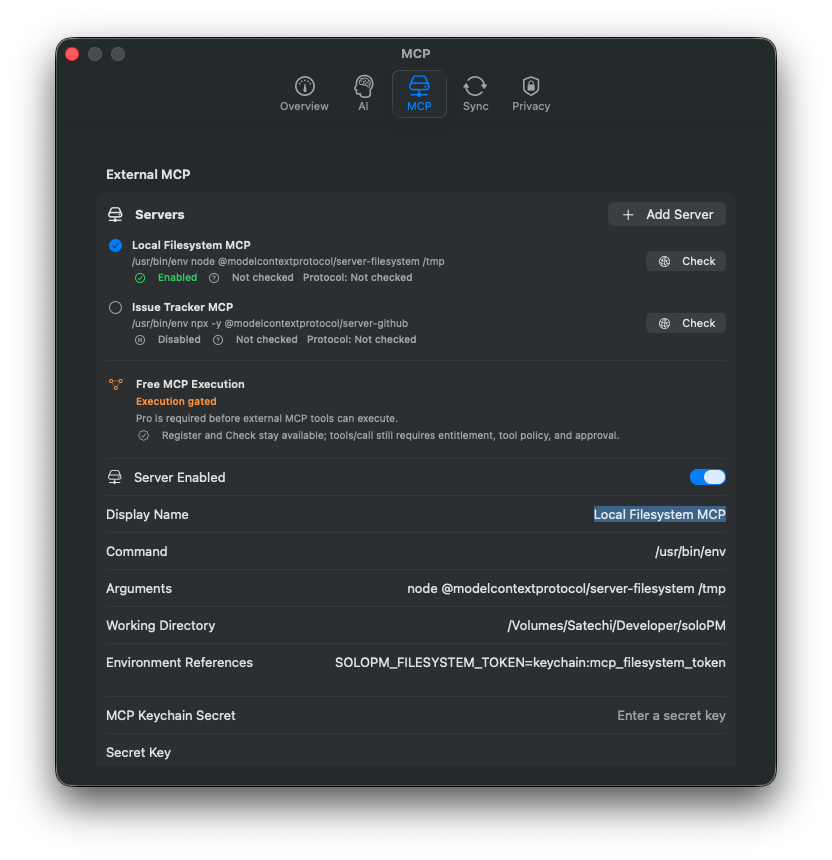
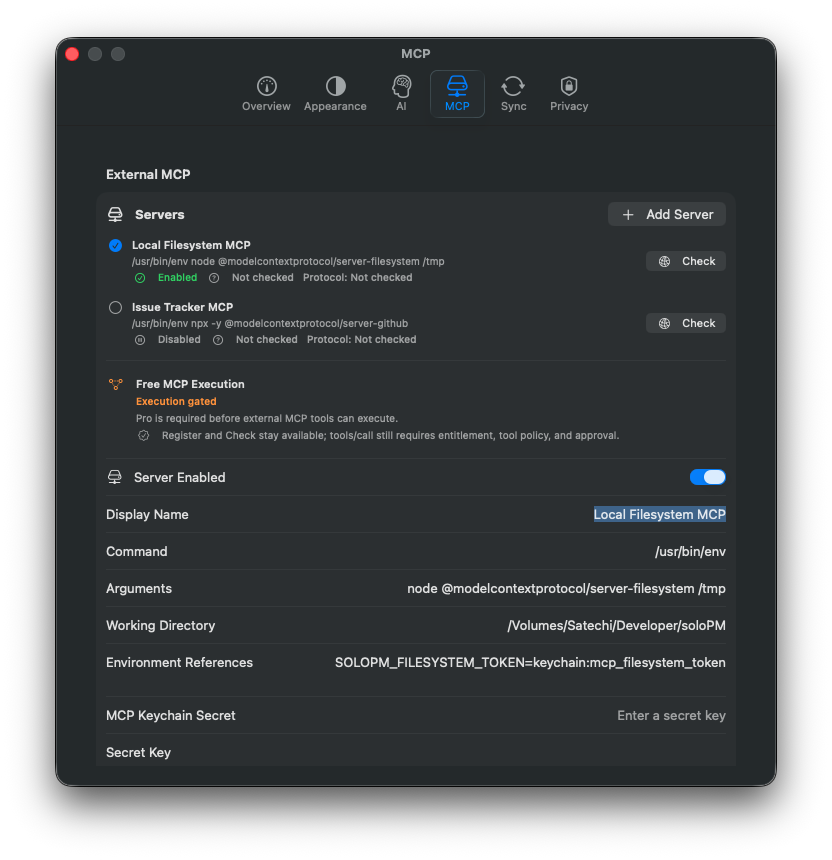
fix: move theme controls to settings appearance

Changed region(s): [[0.3125, 0.0907, 0.7188, 0.1512]]

diff --git a/Tests/SoloPMCoreTests/AppExperienceSourceTests.swift b/Tests/SoloPMCoreTests/AppExperienceSourceTests.swift
@@ -104,8 +104,11 @@ final class AppExperienceSourceTests: XCTestCase {
         XCTAssertEqual(appearanceSectionSource.components(separatedBy: "Section(\"Appearance\")").count - 1, 1)
         XCTAssertEqual(appearanceSectionSource.components(separatedBy: "Picker(\"Theme\"").count - 1, 1)
         let settingsRange = try XCTUnwrap(appSource.range(of: "Settings {"))
+        let appearanceTabRange = try XCTUnwrap(appSource.range(of: "private var appearanceSettingsTab: some View"))
         let appearanceRange = try XCTUnwrap(appSource.range(of: "SettingsAppearanceSection(appearancePreference: $appearancePreference)"))
         XCTAssertLessThan(settingsRange.lowerBound, appearanceRange.lowerBound)
+        XCTAssertLessThan(appearanceTabRange.lowerBound, appearanceRange.lowerBound)
+        XCTAssertTrue(appSource.contains("Label(\"Appearance\", systemImage: \"circle.lefthalf.filled\")"))
         XCTAssertTrue(appSource.contains("appearancePreference: $appearancePreference"))
         XCTAssertTrue(appSource.contains("@Binding private var appearancePreference: SoloPMAppearancePreference"))
         XCTAssertEqual(appSource.components(separatedBy: "@AppStorage(SoloPMAppearancePreference.storageKey)").count - 1, 1)
@@ -1250,9 +1253,11 @@ final class AppExperienceSourceTests: XCTestCase {
         let appSource = try readPackageFile("Sources/SoloPMApp/SoloPMApp.swift")
 
         let overviewRange = try XCTUnwrap(appSource.range(of: "SettingsStatusOverview("))
-        let appearanceRange = try XCTUnwrap(appSource.range(of: "SettingsAppearanceSection(appearancePreference: $appearancePreference)"))
+        let overviewTabRange = try XCTUnwrap(appSource.range(of: "private var overviewSettingsTab: some View"))
+        let appearanceTabRange = try XCTUnwrap(appSource.range(of: "private var appearanceSettingsTab: some View"))
 
-        XCTAssertLessThan(overviewRange.lowerBound, appearanceRange.lowerBound)
+        XCTAssertLessThan(overviewTabRange.lowerBound, overviewRange.lowerBound)
+        XCTAssertLessThan(overviewRange.lowerBound, appearanceTabRange.lowerBound)
         XCTAssertTrue(appSource.contains("Section(\"Status Overview\")"))
         XCTAssertTrue(appSource.contains("title: \"AI Provider\""))
         XCTAssertTrue(appSource.contains("title: \"MCP\""))
@@ -1272,30 +1277,35 @@ final class AppExperienceSourceTests: XCTestCase {
 
         XCTAssertTrue(appSource.contains("TabView {"))
         XCTAssertTrue(appSource.contains("private var overviewSettingsTab: some View"))
+        XCTAssertTrue(appSource.contains("private var appearanceSettingsTab: some View"))
         XCTAssertTrue(appSource.contains("private var aiSettingsTab: some View"))
         XCTAssertTrue(appSource.contains("private var mcpSettingsTab: some View"))
         XCTAssertTrue(appSource.contains("private var syncSettingsTab: some View"))
         XCTAssertTrue(appSource.contains("private var privacySettingsTab: some View"))
         XCTAssertTrue(appSource.contains("Label(\"Overview\", systemImage: \"gauge.with.dots.needle.bottom.50percent\")"))
+        XCTAssertTrue(appSource.contains("Label(\"Appearance\", systemImage: \"circle.lefthalf.filled\")"))
         XCTAssertTrue(appSource.contains("Label(\"AI\", systemImage: \"brain.head.profile\")"))
         XCTAssertTrue(appSource.contains("Label(\"MCP\", systemImage: \"externaldrive.connected.to.line.below\")"))
         XCTAssertTrue(appSource.contains("Label(\"Sync\", systemImage: \"arrow.triangle.2.circlepath\")"))
         XCTAssertTrue(appSource.contains("Label(\"Privacy\", systemImage: \"lock.shield\")"))
 
         let overviewStart = try XCTUnwrap(appSource.range(of: "private var overviewSettingsTab"))
+        let appearanceStart = try XCTUnwrap(appSource.range(of: "private var appearanceSettingsTab"))
         let aiStart = try XCTUnwrap(appSource.range(of: "private var aiSettingsTab"))
         let syncStart = try XCTUnwrap(appSource.range(of: "private var syncSettingsTab"))
         let privacyStart = try XCTUnwrap(appSource.range(of: "private var privacySettingsTab"))
         let mcpStart = try XCTUnwrap(appSource.range(of: "private var mcpSettingsTab"))
 
-        let overviewSource = String(appSource[overviewStart.lowerBound..<aiStart.lowerBound])
+        let overviewSource = String(appSource[overviewStart.lowerBound..<appearanceStart.lowerBound])
+        let appearanceSource = String(appSource[appearanceStart.lowerBound..<aiStart.lowerBound])
         let aiSource = String(appSource[aiStart.lowerBound..<syncStart.lowerBound])
         let syncSource = String(appSource[syncStart.lowerBound..<privacyStart.lowerBound])
         let privacySource = String(appSource[privacyStart.lowerBound..<mcpStart.lowerBound])
         let mcpSource = String(appSource[mcpStart.lowerBound..<appSource.endIndex])
 
         XCTAssertTrue(overviewSource.contains("Section(\"Status Overview\")"))
-        XCTAssertTrue(overviewSource.contains("SettingsAppearanceSection(appearancePreference: $appearancePreference)"))
+        XCTAssertFalse(overviewSource.contains("SettingsAppearanceSection(appearancePreference: $appearancePreference)"))
+        XCTAssertTrue(appearanceSource.contains("SettingsAppearanceSection(appearancePreference: $appearancePreference)"))
         XCTAssertTrue(appearanceSectionSource.contains("Section(\"Appearance\")"))
         XCTAssertTrue(aiSource.contains("Section(\"AI\")"))
         XCTAssertTrue(aiSource.contains("Section(\"Voice\")"))
@@ -1305,8 +1315,8 @@ final class AppExperienceSourceTests: XCTestCase {
         XCTAssertTrue(syncSource.contains("Section(\"Sync\")"))
         XCTAssertTrue(privacySource.contains("Section(\"Privacy\")"))
         XCTAssertTrue(privacySource.contains("Section(\"Watcher\")"))
-        XCTAssertTrue(audit.contains("Settings詳細FormはOverview / AI / MCP / Sync / Privacyのtabへ分割済み"))
-        XCTAssertTrue(phase.contains("[x] Settings詳細FormをOverview / AI / MCP / Sync / Privacyのtabへ分割し"))
+        XCTAssertTrue(audit.contains("Settings詳細FormはOverview / Appearance / AI / MCP / Sync / Privacyのtabへ分割済み"))
+        XCTAssertTrue(phase.contains("[x] Settings詳細FormをOverview / Appearance / AI / MCP / Sync / Privacyのtabへ分割し"))
     }
 
     func testAISettingsTabShowsOnlySelectedProviderFields() throws {
@@ -1603,13 +1613,13 @@ final class AppExperienceSourceTests: XCTestCase {
         XCTAssertTrue(script.contains("project-board-light.png"))
         XCTAssertTrue(script.contains("project-board-dark.png"))
         XCTAssertTrue(script.contains("project-board-system.png"))
-        XCTAssertTrue(script.contains("settings-overview-light.png"))
-        XCTAssertTrue(script.contains("settings-overview-dark.png"))
+        XCTAssertTrue(script.contains("settings-appearance-light.png"))
+        XCTAssertTrue(script.contains("settings-appearance-dark.png"))
         XCTAssertTrue(script.contains("settings-mcp-light.png"))
         XCTAssertTrue(script.contains("settings-mcp-dark.png"))
-        XCTAssertTrue(script.contains("open_settings_overview_tab"))
-        XCTAssertTrue(script.contains("click button \"Overview\" of toolbar 1"))
-        XCTAssertTrue(script.contains("capture_settings_overview_appearance"))
+        XCTAssertTrue(script.contains("open_settings_appearance_tab"))
+        XCTAssertTrue(script.contains("click button \"Appearance\" of toolbar 1"))
+        XCTAssertTrue(script.contains("capture_settings_appearance"))
         XCTAssertTrue(script.contains("open_mcp_settings_tab"))
         XCTAssertTrue(script.contains("click button \"MCP\" of toolbar 1"))
         XCTAssertTrue(script.contains("capture_mcp_settings_appearance"))
@@ -1632,19 +1642,19 @@ final class AppExperienceSourceTests: XCTestCase {
         XCTAssertTrue(evidence.contains("project-board-light.png"))
         XCTAssertTrue(evidence.contains("project-board-dark.png"))
         XCTAssertTrue(evidence.contains("project-board-system.png"))
-        XCTAssertTrue(evidence.contains("settings-overview-light.png"))
-        XCTAssertTrue(evidence.contains("settings-overview-dark.png"))
+        XCTAssertTrue(evidence.contains("settings-appearance-light.png"))
+        XCTAssertTrue(evidence.contains("settings-appearance-dark.png"))
         XCTAssertTrue(evidence.contains("settings-mcp-light.png"))
         XCTAssertTrue(evidence.contains("settings-mcp-dark.png"))
-        XCTAssertTrue(evidence.contains("Manual review: passed for Project Board sidebar/cards/inspector, Settings Overview Theme picker, Settings MCP server rows, and Light/Dark/System contrast"))
+        XCTAssertTrue(evidence.contains("Manual review: passed for Project Board sidebar/cards/inspector, Settings Appearance Theme picker, Settings MCP server rows, and Light/Dark/System contrast"))
         XCTAssertTrue(audit.contains("Task card screenshot証跡は生成・目視確認済み"))
         XCTAssertTrue(audit.contains("MCP server別の接続状態証跡は生成・目視確認済み"))
-        XCTAssertTrue(audit.contains("settings-overview-light.png"))
-        XCTAssertTrue(audit.contains("settings-overview-dark.png"))
+        XCTAssertTrue(audit.contains("settings-appearance-light.png"))
+        XCTAssertTrue(audit.contains("settings-appearance-dark.png"))
         XCTAssertTrue(audit.contains("settings-mcp-light.png"))
         XCTAssertTrue(audit.contains("settings-mcp-dark.png"))
         XCTAssertTrue(phase.contains("[x] `script/capture_ui_evidence.sh` は一時HOME、seed済みProject board、Light/Dark/System切替、window captureを使う。"))
-        XCTAssertTrue(phase.contains("[x] `release_readiness_report.sh` は `ui-screenshots.md` だけでなく Project Board Light/Dark/System、Settings Overview Light/Dark、MCP Settings Light/Dark PNG の存在、サイズ、寸法を検証し、欠落や小さすぎる画像をblockerにする。"))
+        XCTAssertTrue(phase.contains("[x] `release_readiness_report.sh` は `ui-screenshots.md` だけでなく Project Board Light/Dark/System、Settings Appearance Light/Dark、MCP Settings Light/Dark PNG の存在、サイズ、寸法を検証し、欠落や小さすぎる画像をblockerにする。"))
         XCTAssertTrue(phase.contains("[x] Light/Dark/System切替後にカード、サイドバー、インスペクタのコントラストが破綻しないことをスクリーンショットで確認する。"))
         XCTAssertTrue(phase.contains("[x] `ui-samples/` を参考にした画面密度・インスペクタ・Settingsの改善がスクリーンショットで検証されている。"))
     }

diff --git a/Tests/SoloPMCoreTests/ReleasePipelineTests.swift b/Tests/SoloPMCoreTests/ReleasePipelineTests.swift
@@ -3959,7 +3959,7 @@ final class ReleasePipelineTests: XCTestCase {
         XCTAssertTrue(script.contains("section \"UI screenshot evidence\""))
         XCTAssertTrue(script.contains("docs/release/evidence/ui-screenshots.md"))
         XCTAssertTrue(script.contains("project-board-light.png"))
-        XCTAssertTrue(script.contains("settings-overview-light.png"))
+        XCTAssertTrue(script.contains("settings-appearance-light.png"))
         XCTAssertTrue(script.contains("settings-mcp-light.png"))
         XCTAssertTrue(script.contains("sips -g pixelWidth -g pixelHeight"))
         XCTAssertTrue(script.contains("assert_screenshot_has_visible_content"))
@@ -4430,8 +4430,8 @@ final class ReleasePipelineTests: XCTestCase {
         - Light: `docs/release/evidence/ui-screenshots/project-board-light.png`
         - Dark: `docs/release/evidence/ui-screenshots/project-board-dark.png`
         - System: `docs/release/evidence/ui-screenshots/project-board-system.png`
-        - Settings Overview Light: `docs/release/evidence/ui-screenshots/settings-overview-light.png`
-        - Settings Overview Dark: `docs/release/evidence/ui-screenshots/settings-overview-dark.png`
+        - Settings Appearance Light: `docs/release/evidence/ui-screenshots/settings-appearance-light.png`
+        - Settings Appearance Dark: `docs/release/evidence/ui-screenshots/settings-appearance-dark.png`
         - MCP Settings Light: `docs/release/evidence/ui-screenshots/settings-mcp-light.png`
         - MCP Settings Dark: `docs/release/evidence/ui-screenshots/settings-mcp-dark.png`
         """.write(to: evidenceDirectory.appendingPathComponent("ui-screenshots.md"), atomically: true, encoding: .utf8)
@@ -4505,8 +4505,8 @@ final class ReleasePipelineTests: XCTestCase {
         - Light: `docs/release/evidence/ui-screenshots/project-board-light.png`
         - Dark: `docs/release/evidence/ui-screenshots/project-board-dark.png`
         - System: `docs/release/evidence/ui-screenshots/project-board-system.png`
-        - Settings Overview Light: `docs/release/evidence/ui-screenshots/settings-overview-light.png`
-        - Settings Overview Dark: `docs/release/evidence/ui-screenshots/settings-overview-dark.png`
+        - Settings Appearance Light: `docs/release/evidence/ui-screenshots/settings-appearance-light.png`
+        - Settings Appearance Dark: `docs/release/evidence/ui-screenshots/settings-appearance-dark.png`
         - MCP Settings Light: `docs/release/evidence/ui-screenshots/settings-mcp-light.png`
         - MCP Settings Dark: `docs/release/evidence/ui-screenshots/settings-mcp-dark.png`
         """.write(to: evidenceDirectory.appendingPathComponent("ui-screenshots.md"), atomically: true, encoding: .utf8)
@@ -4530,7 +4530,7 @@ final class ReleasePipelineTests: XCTestCase {
         try "- [x] fixture readme has no template blockers\n"
             .write(to: tasksDirectory.appendingPathComponent("README.md"), atomically: true, encoding: .utf8)
 
-        for screenshotFilename in ["project-board-light.png", "project-board-dark.png", "project-board-system.png", "settings-overview-light.png", "settings-overview-dark.png", "settings-mcp-light.png", "settings-mcp-dark.png"] {
+        for screenshotFilename in ["project-board-light.png", "project-board-dark.png", "project-board-system.png", "settings-appearance-light.png", "settings-appearance-dark.png", "settings-mcp-light.png", "settings-mcp-dark.png"] {
             try writeSolidPNG(
                 to: screenshotDirectory.appendingPathComponent(screenshotFilename),
                 width: 800,
@@ -4551,8 +4551,8 @@ final class ReleasePipelineTests: XCTestCase {
         XCTAssertTrue(result.output.contains("UI screenshot appears blank or too low contrast: docs/release/evidence/ui-screenshots/project-board-light.png"))
         XCTAssertTrue(result.output.contains("UI screenshot appears blank or too low contrast: docs/release/evidence/ui-screenshots/project-board-dark.png"))
         XCTAssertTrue(result.output.contains("UI screenshot appears blank or too low contrast: docs/release/evidence/ui-screenshots/project-board-system.png"))
-        XCTAssertTrue(result.output.contains("UI screenshot appears blank or too low contrast: docs/release/evidence/ui-screenshots/settings-overview-light.png"))
-        XCTAssertTrue(result.output.contains("UI screenshot appears blank or too low contrast: docs/release/evidence/ui-screenshots/settings-overview-dark.png"))
+        XCTAssertTrue(result.output.contains("UI screenshot appears blank or too low contrast: docs/release/evidence/ui-screenshots/settings-appearance-light.png"))
+        XCTAssertTrue(result.output.contains("UI screenshot appears blank or too low contrast: docs/release/evidence/ui-screenshots/settings-appearance-dark.png"))
         XCTAssertTrue(result.output.contains("UI screenshot appears blank or too low contrast: docs/release/evidence/ui-screenshots/settings-mcp-light.png"))
         XCTAssertTrue(result.output.contains("UI screenshot appears blank or too low contrast: docs/release/evidence/ui-screenshots/settings-mcp-dark.png"))
         XCTAssertFalse(result.output.contains("READY: runtime, task checklist, automated proof gates, and release environment gates passed."))

diff --git a/Sources/SoloPMApp/SoloPMApp.swift b/Sources/SoloPMApp/SoloPMApp.swift
@@ -853,6 +853,9 @@ private struct SettingsView: View {
             overviewSettingsTab
                 .tabItem { Label("Overview", systemImage: "gauge.with.dots.needle.bottom.50percent") }
 
+            appearanceSettingsTab
+                .tabItem { Label("Appearance", systemImage: "circle.lefthalf.filled") }
+
             aiSettingsTab
                 .tabItem { Label("AI", systemImage: "brain.head.profile") }
 
@@ -902,8 +905,13 @@ private struct SettingsView: View {
                 )
             }
 
-            SettingsAppearanceSection(appearancePreference: $appearancePreference)
+        }
+        .formStyle(.grouped)
+    }
 
+    private var appearanceSettingsTab: some View {
+        Form {
+            SettingsAppearanceSection(appearancePreference: $appearancePreference)
         }
         .formStyle(.grouped)
     }

diff --git a/docs/ux/click-path-audit.md b/docs/ux/click-path-audit.md
@@ -23,7 +23,7 @@
 | --- | --- | --- |
 | Project Board | 起動時のメインwindow、menu barの `Project Board` | SidebarにInbox、Today、Projectsが固定表示され、Project overview/board/list、task composer、inspectorを扱う主要画面。 |
 | Voice Command | board toolbarの `Voice Command`、menu barの `Voice Command` | CaptureとAI action reviewの導線がある。現状ではInboxの代替に近い。 |
-| Settings | macOS app menuの `Settings...`、`Command+,`、macOS Settings scene | 先頭のStatus OverviewでAI Provider、MCP、Sync、Privacyを確認できる。ThemeはSettings OverviewのAppearanceに集約する。 |
+| Settings | macOS app menuの `Settings...`、`Command+,`、macOS Settings scene | 先頭のStatus OverviewでAI Provider、MCP、Sync、Privacyを確認できる。ThemeはSettings内のAppearance tabに集約する。 |
 | Inbox | sidebarの `Inbox` | 未処理taskを実データから表示し、Task化、Project化、今日へ予定、後で確認を選択中itemへ1クリックで適用できる。 |
 | Today | sidebarの `Today` | due/overdueの未完了taskを実データから表示し、overdue/today件数、local focus suggestion、30分単位のtime block、task inspectorへつながる。 |
 
@@ -56,7 +56,7 @@
 | Project完了 | Project inspector -> `Complete Project` | 2 | Pass | headerから削除し、選択中Projectの操作をinspectorに集約した。 |
 | Project archive/delete | Project inspector -> action -> confirm | 3 | Pass | 破壊的操作なので確認があるのは妥当。 |
 | Settingsを開く | macOS app menu `Settings...` または `Command+,` | 1 | Pass | Project BoardとMenuBarPanelの右上には置かず、作業画面内のTheme/Settings重複導線をなくす。 |
-| Theme変更 | Settings -> Overview -> `Theme` segment | 2 | Pass | ThemeはSettings Overviewに集約済み。Project Boardのサイドバー下/右上にはTheme controlを置かない。 |
+| Theme変更 | Settings -> Appearance -> `Theme` segment | 2 | Pass | ThemeはSettingsのAppearance tabに集約済み。Project Boardのサイドバー下/右上にはTheme controlを置かない。 |
 | AI Provider状態確認 | Settings -> Status OverviewまたはAI tabのProvider Readiness summaryを見る | 1 | Pass | 現在のproviderと認証/承認状態は先頭で分かり、AI tabでは全providerの設定状態をprovider切替なしで確認できる。 |
 | AI Provider変更 | Settings -> provider picker -> provider | 2 | Pass | Provider選択時に自動保存されるため、保存ボタンを探す必要がない。AI Provider readiness rowで選択中providerの状態、smoke readiness、次の操作がすぐ分かる。 |
 | Provider API key保存 | Settings -> API key field -> save key | 3 | Pass | 初期設定として3操作は残るが、readiness rowが「Keychainへ保存」「再入力」「manual smoke」の次操作を出すため迷子になりにくい。 |
@@ -79,9 +79,9 @@
 | Task card metadata stripはsource-levelで改善済み | Task card metadata strip はstatus / priority / dueを固定寸法chipに分離し、狭いKanban列ではadaptive gridへ逃がす。drag affordanceは右上の固定サイズiconとして残り、Open task領域とstatus move controlsから分離済み。 | Done | Light/Dark/Systemスクリーンショットでtitle、状態、優先度、期限、drag affordanceが重ならないことを確認済み。 |
 | Task card screenshot証跡は生成・目視確認済み | Task cardのtitle/status/priority/due/drag affordanceは実装済み。`docs/release/evidence/ui-screenshots/` のLight/Dark/System PNGで一時HOME、seed済みProject board、window captureの証跡を残した。 | Done | 以後のUI変更では `script/capture_ui_evidence.sh` を再実行し、生成PNGを目視確認する。 |
 | Inspector summaryはsource-levelで改善済み | Task / Project inspector はcompact summaryを先頭に追加済み。Taskはstatus/priority/due/project、Projectはstatus/open tasks/total tasks/artifactsを詳細Form前に表示し、右ペインを開いた直後の文脈把握を早くする。 | Done | Light/Dark/Systemスクリーンショットでsummary、編集field、danger actionが狭いinspector幅でも重ならないことを確認済み。 |
-| Settings詳細Formはtab分割済み | Settings詳細FormはOverview / AI / MCP / Sync / Privacyのtabへ分割済み。Status OverviewとThemeはOverview、provider詳細はAI、MCP登録/権限/auditはMCP、同期はSync、通知/起動/WatcherはPrivacyに分けた。 | Done | `settings-overview-light.png` / `settings-overview-dark.png` でTheme pickerがSettings Overviewにあり、Project Boardには重複Theme controlがないことを確認済み。 |
+| Settings詳細Formはtab分割済み | Settings詳細FormはOverview / Appearance / AI / MCP / Sync / Privacyのtabへ分割済み。Status OverviewはOverview、ThemeはAppearance、provider詳細はAI、MCP登録/権限/auditはMCP、同期はSync、通知/起動/WatcherはPrivacyに分けた。 | Done | `settings-appearance-light.png` / `settings-appearance-dark.png` とsource testでTheme pickerがSettings Appearanceに1箇所だけ存在し、Project Boardには重複Theme controlがないことを確認済み。 |
 | Provider詳細設定は選択中providerだけを表示するcompact panelへ分離済み | Provider pickerの下に選択中providerに必要なfieldだけを出すため、他providerのAPI key、model、local executableは同時表示されない。AI Provider readiness summaryでは全providerのConfigured / Not configured / Local / Setup required / Approval requiredを短く見られる。 | Done | 未選択providerの状態確認にprovider切替は不要。 |
-| MCP server別の接続状態証跡は生成・目視確認済み | 複数server rowのinline statusとrow単位Checkは実装済み。`settings-mcp-light.png` / `settings-mcp-dark.png` で複数server、Free MCP execution gate、row単位Check導線を確認済み。 | Done | 以後のSettings変更では `script/capture_ui_evidence.sh` を再実行し、Settings Overview / MCP PNGを目視確認する。 |
+| MCP server別の接続状態証跡は生成・目視確認済み | 複数server rowのinline statusとrow単位Checkは実装済み。`settings-mcp-light.png` / `settings-mcp-dark.png` で複数server、Free MCP execution gate、row単位Check導線を確認済み。 | Done | 以後のSettings変更では `script/capture_ui_evidence.sh` を再実行し、Settings Appearance / MCP PNGを目視確認する。 |
 | accessibility検証が未完了 | Task card、column add、status move、destructive confirmationのlabel/helpはsource testで固定し、Task cardのOpen Detailsとstatus move controlsも別フォーカス対象に分離した。Sidebar -> board detail -> task card -> Inline Task Composer -> inspectorのsource-level VoiceOver focus anchors are fixed。Inline Task Composerはrelease VoiceOver証跡の必須focus pathにも含めた。Task / Project inspectorのfield、提案適用、保存、complete、restore、archive、deleteはaccessibility identifier / hintを持ち、キーボードだけで実行できる。Inbox / Todayのrow、Quick Add、分類action、Today summary、time blockにsource-level accessibility identifiers / hints / keyboard anchorsを追加済み。Light/Dark/System screenshot evidenceは生成・目視確認済み。実機VoiceOver focus order確認は残る。 | P1 | VoiceOverでProject board -> card -> Inline Task Composer -> inspectorの順序を確認し、崩れを修正する。 |
 
 ## 改善紐づけ
@@ -102,7 +102,7 @@ PR未作成のため、現時点ではcurrent branchの改善commitとsource tes
 | Review Execute artifact作成 | Action Planのfilesystem artifact作成が `projectId` / `taskId` を持つ場合、作成ファイルと同時にlocal SQLite artifact linkを作り、Project OverviewのArtifactsへ戻す。 | `Sources/SoloPMCore/Tools/SystemTools.swift`, `Sources/SoloPMCore/Tools/SystemToolClients.swift`, `Sources/SoloPMApp/SoloPMApp.swift` | `SystemToolTests.testFileSystemToolPersistsCreatedArtifactLinkWhenProjectIDIsProvided`, `AppExperienceSourceTests.testRuntimeAppCompositionDoesNotUseDemoOrInMemorySuccessPath` |
 | Inbox capture / triage | MenuBar Quick AddまたはInbox headerから実タスクを作り、item選択後にMake Task、Make Project、Schedule Today、Review Laterを1クリックで実mutationへ送る。 | `Sources/SoloPMApp/SoloPMApp.swift`, `Sources/SoloPMApp/Views/ProjectWorkflowViews.swift`, `Sources/SoloPMCore/App/ProjectBoard.swift` | `AppExperienceSourceTests.testMenuBarPanelProvidesFastInboxCaptureWithRuntimeBoardViewModel`, `ProjectBoardStoreTests.testProjectBoardViewModelQuickCapturesInboxTaskAndNotifies`, `ProjectBoardStoreTests.testProjectBoardViewModelQuickCapturePersistsToSQLiteInbox`, `ProjectBoardStoreTests.testProjectBoardViewModelInboxClassificationShowsFeedbackAdvancesSelectionAndUndo`, `ProjectBoardStoreTests.testSQLiteBoardStorePersistsInboxClassificationUndo` |
 | Today planning | sidebarから1クリックでdue/overdue、focus suggestion、time blockを確認する。 | `Sources/SoloPMApp/Views/ProjectWorkflowViews.swift`, `Sources/SoloPMCore/App/ProjectBoard.swift` | `AppExperienceSourceTests.testTodayWorkflowShowsRecommendationDueCountsAndTimeBlocks`, `ProjectBoardStoreTests.testProjectBoardViewModelBuildsDeterministicTodayPlanWithTimeBlocks` |
-| Settings overview / Theme | macOS app menuまたは`Command+,`からSettingsを開き、Status OverviewとTheme segmentをSettings内へ集約する。Project Boardのサイドバー下/右上とMenuBarPanel右上にはTheme/Settings controlを置かない。 | `Sources/SoloPMApp/SoloPMApp.swift` | `AppExperienceSourceTests.testSettingsSurfaceStartsWithStatusOverviewForCoreOperationalAreas`, `AppExperienceSourceTests.testAppearanceSelectionIsConfiguredOnlyFromSettings`, `AppExperienceSourceTests.testProjectBoardSidebarAndToolbarDoNotHostThemeControls`, `AppExperienceSourceTests.testMenuBarPanelDoesNotHostSettingsOrThemeControls` |
+| Settings overview / Theme | macOS app menuまたは`Command+,`からSettingsを開き、Status OverviewはOverview tab、Theme segmentはAppearance tabへ集約する。Project Boardのサイドバー下/右上とMenuBarPanel右上にはTheme/Settings controlを置かない。 | `Sources/SoloPMApp/SoloPMApp.swift` | `AppExperienceSourceTests.testSettingsSurfaceStartsWithStatusOverviewForCoreOperationalAreas`, `AppExperienceSourceTests.testAppearanceSelectionIsConfiguredOnlyFromSettings`, `AppExperienceSourceTests.testProjectBoardSidebarAndToolbarDoNotHostThemeControls`, `AppExperienceSourceTests.testMenuBarPanelDoesNotHostSettingsOrThemeControls` |
 | AI Provider readiness row | Provider picker直下に選択中providerの状態、smoke readiness、次の操作を表示し、API keyやlocal executionの不足を詳細field前に分かるようにする。 | `Sources/SoloPMApp/SoloPMApp.swift` | `AppExperienceSourceTests.testAISettingsTabShowsSelectedProviderReadinessBeforeProviderFields` |
 | AI Provider readiness summary | AI tab内に全providerの状態を短いsummaryとして表示し、provider切替なしでKeychain/API/local executionの不足を把握できるようにする。 | `Sources/SoloPMApp/SoloPMApp.swift`, `Sources/SoloPMCore/App/AppSettings.swift` | `AppExperienceSourceTests.testAISettingsTabShowsSelectedProviderReadinessBeforeProviderFields`, `AppSettingsTests.testAppSettingsViewModelBuildsProviderReadinessRowsWithoutSecrets` |
 | AI provider設定 | provider pickerの選択を自動保存し、選択中providerのfieldだけを表示する。 | `Sources/SoloPMApp/SoloPMApp.swift`, `Sources/SoloPMCore/App/AppSettings.swift`, `Sources/SoloPMCore/App/LLMProviderCatalog.swift` | `AppExperienceSourceTests.testAISettingsTabShowsOnlySelectedProviderFields`, `AppSettingsTests.testAppSettingsViewModelPersistsProviderSelectionWhenSelected` |

diff --git a/tasks/Phase11-ProviderSyncUXProductization.md b/tasks/Phase11-ProviderSyncUXProductization.md
@@ -138,7 +138,7 @@
 - [x] Freeでは同期toggleをdisabledにし、押した時も外部通信を発火しない。
 - [x] Pro未構成では「Sync backend is not configured」と表示し、成功バッジを出さない。
 - [x] `ui-samples/07.png` の設定密度を参考に、AI Provider / MCP / Sync / Privacy が一画面で状態確認できるよう整理する。
-- [x] Settings詳細FormをOverview / AI / MCP / Sync / Privacyのtabへ分割し、Status確認・Theme変更・provider設定・MCP登録・Sync gate・Privacy設定の到達先を明確にする。
+- [x] Settings詳細FormをOverview / Appearance / AI / MCP / Sync / Privacyのtabへ分割し、Status確認・Theme変更・provider設定・MCP登録・Sync gate・Privacy設定の到達先を明確にする。
 - [x] AI tabのprovider詳細fieldは選択中providerだけを表示し、非選択providerのAPI key、model、local executable欄を同時表示しない。
 - [x] AI tabはprovider picker直下に選択中providerの状態、smoke readiness、次の操作を表示し、詳細fieldを読む前に未設定理由が分かる。
 - [x] Sync tabはtoggle前にPro価値、Freeのlocal-only境界、backend未構成時の次状態を表示し、課金価値がdisabled toggleだけに埋もれない。
@@ -216,7 +216,7 @@
   - [x] `capture_ui_evidence.sh` はcapture前にappを前面化し、黒画面/低情報量PNGをrelease evidenceとして残さず失敗させる。
   - [x] `capture_ui_evidence.sh` はScreen Recording権限やwindow capture失敗時に、選択window情報と再実行手順を出す。
   - [x] `capture_ui_evidence.sh --doctor` はrelease evidenceを書かずにScreen Recordingの可視ピクセル取得を事前診断する。
-- [x] `release_readiness_report.sh` は `ui-screenshots.md` だけでなく Project Board Light/Dark/System、Settings Overview Light/Dark、MCP Settings Light/Dark PNG の存在、サイズ、寸法を検証し、欠落や小さすぎる画像をblockerにする。
+- [x] `release_readiness_report.sh` は `ui-screenshots.md` だけでなく Project Board Light/Dark/System、Settings Appearance Light/Dark、MCP Settings Light/Dark PNG の存在、サイズ、寸法を検証し、欠落や小さすぎる画像をblockerにする。
 - [x] Light/Dark/System切替後にカード、サイドバー、インスペクタのコントラストが破綻しないことをスクリーンショットで確認する。
 - [ ] 完了条件: マウス、キーボード、支援技術のどれでも主要CRUDが完結する。
 

diff --git a/docs/release/evidence/ui-screenshots.md b/docs/release/evidence/ui-screenshots.md
@@ -2,20 +2,20 @@
 
 Generated with `script/capture_ui_evidence.sh`.
 
-- Generated at: `2026-06-19T09:26:36Z`
+- Generated at: `2026-06-19T13:34:36Z`
 - App bundle: `dist/SoloPM.app`
 - Data isolation: isolated temporary HOME via `HOME` and `CFFIXED_USER_HOME`
 - Seed data: local `Launch Readiness` project with planned, in-progress, and blocked task cards plus deterministic MCP registration rows
-- Scope: Project board sidebar, task cards, right inspector, Settings Overview Theme picker, and Settings MCP server list across Light/Dark/System
-- Manual review: passed for Project Board sidebar/cards/inspector, Settings Overview Theme picker, Settings MCP server rows, and Light/Dark/System contrast
+- Scope: Project board sidebar, task cards, right inspector, Settings Appearance Theme picker, and Settings MCP server list across Light/Dark/System
+- Manual review: passed for Project Board sidebar/cards/inspector, Settings Appearance Theme picker, Settings MCP server rows, and Light/Dark/System contrast
 
 ## Screenshots
 
 - Light: `docs/release/evidence/ui-screenshots/project-board-light.png`
 - Dark: `docs/release/evidence/ui-screenshots/project-board-dark.png`
 - System: `docs/release/evidence/ui-screenshots/project-board-system.png`
-- Settings Overview Light: `docs/release/evidence/ui-screenshots/settings-overview-light.png`
-- Settings Overview Dark: `docs/release/evidence/ui-screenshots/settings-overview-dark.png`
+- Settings Appearance Light: `docs/release/evidence/ui-screenshots/settings-appearance-light.png`
+- Settings Appearance Dark: `docs/release/evidence/ui-screenshots/settings-appearance-dark.png`
 - MCP Settings Light: `docs/release/evidence/ui-screenshots/settings-mcp-light.png`
 - MCP Settings Dark: `docs/release/evidence/ui-screenshots/settings-mcp-dark.png`
 
